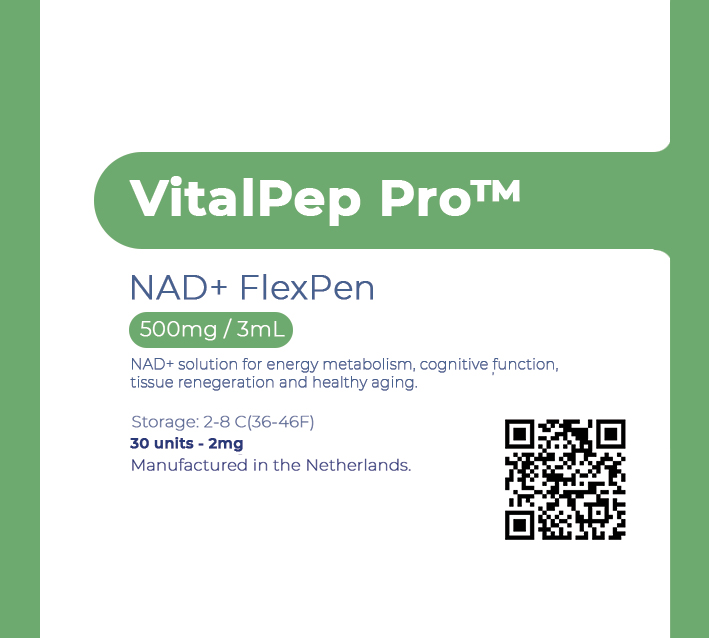
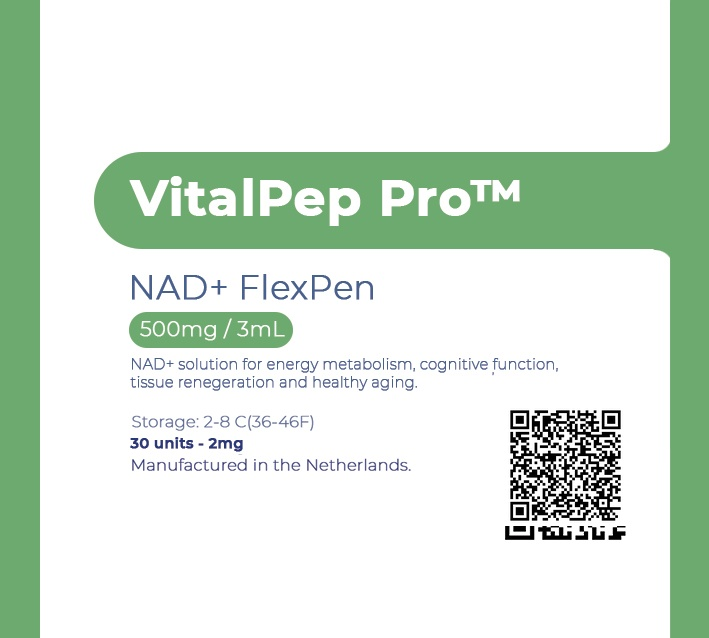
Add verification system: QR codes, verify page, GitHub Pages redirect
- page-verify.php: new template that authenticates scans via token meta
- docs/: GitHub Pages redirect layer (domain-independent QR URLs)
- All 7 pen images: QR codes replaced with per-pen verification URLs
- functions.php: verify tokens in seeder, ensure-tokens initializer,
  /verify/ page auto-created, token display in meta box

Changed region(s): [[0.7137, 0.6254, 0.8999, 0.8339]]

diff --git a/docs/verify/index.html b/docs/verify/index.html
@@ -1,0 +1,44 @@
+<!DOCTYPE html>
+<html lang="en">
+<head>
+    <meta charset="UTF-8">
+    <meta name="viewport" content="width=device-width, initial-scale=1.0">
+    <title>VitalPep Pro — Redirecting to Verification...</title>
+    <script src="../config.js"></script>
+    <script>
+        (function() {
+            var t = new URLSearchParams(window.location.search).get('t') || '';
+            if (t && typeof VERIFY_DOMAIN !== 'undefined') {
+                window.location.replace(VERIFY_DOMAIN + '/verify/?t=' + encodeURIComponent(t));
+            } else if (typeof VERIFY_DOMAIN !== 'undefined') {
+                window.location.replace(VERIFY_DOMAIN + '/verify/');
+            }
+        })();
+    </script>
+    <style>
+        body { margin: 0; background: #0a0f1e; display: flex; align-items: center; justify-content: center; min-height: 100vh; font-family: -apple-system, sans-serif; }
+        .box { text-align: center; color: #fff; }
+        .spinner { width: 40px; height: 40px; border: 3px solid rgba(93,173,226,.2); border-top-color: #5dade2; border-radius: 50%; animation: spin .8s linear infinite; margin: 0 auto 20px; }
+        @keyframes spin { to { transform: rotate(360deg); } }
+        p { color: rgba(255,255,255,.6); font-size: .9rem; margin: 0; }
+        a { color: #5dade2; }
+    </style>
+</head>
+<body>
+    <div class="box">
+        <div class="spinner"></div>
+        <p>Redirecting to VitalPep Pro verification&hellip;</p>
+        <p style="margin-top:12px;font-size:.8rem">
+            If you are not redirected, <a id="fallback" href="#">click here</a>.
+        </p>
+    </div>
+    <script>
+        // Set fallback link
+        var t = new URLSearchParams(window.location.search).get('t') || '';
+        var link = typeof VERIFY_DOMAIN !== 'undefined'
+            ? VERIFY_DOMAIN + '/verify/?t=' + encodeURIComponent(t)
+            : 'https://vitalpeppro.com/verify/';
+        document.getElementById('fallback').href = link;
+    </script>
+</body>
+</html>

diff --git a/docs/index.html b/docs/index.html
@@ -1,0 +1,19 @@
+<!DOCTYPE html>
+<html lang="en">
+<head>
+    <meta charset="UTF-8">
+    <title>VitalPep Pro</title>
+    <script src="config.js"></script>
+    <script>
+        if (typeof VERIFY_DOMAIN !== 'undefined') {
+            window.location.replace(VERIFY_DOMAIN);
+        }
+    </script>
+</head>
+<body>
+    <p>Redirecting to <a id="l" href="https://vitalpeppro.com">VitalPep Pro</a>...</p>
+    <script>
+        if (typeof VERIFY_DOMAIN !== 'undefined') document.getElementById('l').href = VERIFY_DOMAIN;
+    </script>
+</body>
+</html>

diff --git a/docs/config.js b/docs/config.js
@@ -1,0 +1,5 @@
+// =====================================================
+// UPDATE THIS URL WHEN YOUR DOMAIN CHANGES
+// Then commit + push to GitHub — all QR codes update
+// =====================================================
+var VERIFY_DOMAIN = "https://vitalpeppro.com";

diff --git a/page-verify.php b/page-verify.php
@@ -1,0 +1,194 @@
+<?php
+/*
+ * Template Name: Verify
+ * Template Post Type: page
+ */
+
+// Look up FlexPen by verification token
+$token    = isset( $_GET['t'] ) ? sanitize_text_field( $_GET['t'] ) : '';
+$verified = false;
+$pen_post = null;
+
+if ( $token ) {
+    $results = get_posts( array(
+        'post_type'      => 'vp_flexpen',
+        'post_status'    => 'publish',
+        'posts_per_page' => 1,
+        'meta_query'     => array( array(
+            'key'     => '_vpp_fp_verify_token',
+            'value'   => $token,
+            'compare' => '=',
+        ) ),
+    ) );
+    if ( ! empty( $results ) ) {
+        $pen_post = $results[0];
+        $verified = true;
+    }
+}
+
+get_header();
+$g = $pen_post ? function( $k ) use ( $pen_post ) { return get_post_meta( $pen_post->ID, $k, true ); } : null;
+?>
+
+<style>
+.vfy-wrap{min-height:100vh;background:linear-gradient(135deg,#060c18 0%,#0a1628 60%,#071020 100%);display:flex;align-items:center;justify-content:center;padding:40px 20px}
+.vfy-card{background:rgba(255,255,255,.04);border:1px solid rgba(93,173,226,.15);border-radius:20px;max-width:560px;width:100%;padding:48px 44px;text-align:center;position:relative;overflow:hidden}
+.vfy-card::before{content:'';position:absolute;inset:0;background:radial-gradient(ellipse at 50% 0%,rgba(93,173,226,.07),transparent 65%);pointer-events:none}
+
+/* VERIFIED state */
+.vfy-badge{display:inline-flex;align-items:center;gap:10px;padding:10px 22px;border-radius:999px;font-size:.78rem;font-weight:700;letter-spacing:.1em;text-transform:uppercase;margin-bottom:28px}
+.vfy-badge--ok{background:rgba(39,174,96,.12);border:1px solid rgba(39,174,96,.3);color:#27ae60}
+.vfy-badge--fail{background:rgba(220,38,38,.1);border:1px solid rgba(220,38,38,.25);color:#ef4444}
+.vfy-badge svg{flex-shrink:0}
+
+.vfy-icon{width:72px;height:72px;border-radius:50%;display:flex;align-items:center;justify-content:center;margin:0 auto 20px}
+.vfy-icon--ok{background:rgba(39,174,96,.12);border:2px solid rgba(39,174,96,.25)}
+.vfy-icon--fail{background:rgba(220,38,38,.08);border:2px solid rgba(220,38,38,.2)}
+
+.vfy-title{font-size:1.7rem;font-weight:800;margin:0 0 6px;color:#fff}
+.vfy-title--ok span{color:#27ae60}
+.vfy-title--fail span{color:#ef4444}
+.vfy-sub{font-size:.92rem;color:rgba(255,255,255,.55);margin:0 0 32px;line-height:1.6}
+
+.vfy-divider{height:1px;background:rgba(93,173,226,.1);margin:28px 0}
+
+/* Product details */
+.vfy-product{display:flex;align-items:center;gap:20px;text-align:left;background:rgba(93,173,226,.04);border:1px solid rgba(93,173,226,.1);border-radius:12px;padding:18px 20px;margin-bottom:24px}
+.vfy-product__img{width:72px;height:72px;border-radius:8px;object-fit:contain;flex-shrink:0;background:rgba(255,255,255,.03)}
+.vfy-product__name{font-size:1.15rem;font-weight:700;color:#fff;margin:0 0 4px}
+.vfy-product__cat{font-size:.75rem;color:#5dade2;letter-spacing:.08em;text-transform:uppercase;font-weight:600;margin:0 0 8px}
+.vfy-product__meta{display:flex;flex-wrap:wrap;gap:6px;margin:0}
+.vfy-meta-chip{font-size:.72rem;background:rgba(255,255,255,.06);border:1px solid rgba(255,255,255,.08);color:rgba(255,255,255,.6);padding:3px 10px;border-radius:20px}
+
+.vfy-specs{display:grid;grid-template-columns:1fr 1fr;gap:10px;margin-bottom:24px;text-align:left}
+.vfy-spec{background:rgba(255,255,255,.03);border:1px solid rgba(255,255,255,.06);border-radius:10px;padding:12px 14px}
+.vfy-spec__label{font-size:.68rem;text-transform:uppercase;letter-spacing:.08em;color:rgba(255,255,255,.35);margin-bottom:4px}
+.vfy-spec__val{font-size:.9rem;font-weight:600;color:#fff}
+
+.vfy-seal{display:flex;align-items:center;justify-content:center;gap:8px;font-size:.75rem;color:rgba(255,255,255,.35);margin-top:24px}
+.vfy-seal svg{color:rgba(255,255,255,.25)}
+
+.vfy-brand{display:flex;align-items:center;justify-content:center;gap:8px;margin-bottom:32px}
+.vfy-brand__name{font-size:1rem;font-weight:700;color:#fff;letter-spacing:.04em}
+.vfy-brand__tag{font-size:.7rem;color:#5dade2;letter-spacing:.12em;text-transform:uppercase}
+
+/* INVALID state message */
+.vfy-invalid-msg{color:rgba(255,255,255,.55);font-size:.9rem;line-height:1.7;margin-bottom:24px}
+.vfy-btn{display:inline-flex;align-items:center;gap:8px;background:#1a5276;color:#fff;padding:12px 28px;border-radius:999px;text-decoration:none;font-size:.88rem;font-weight:600;transition:background .2s}
+.vfy-btn:hover{background:#2980b9;color:#fff}
+</style>
+
+<div class="vfy-wrap">
+    <div class="vfy-card">
+
+        <!-- Brand header -->
+        <div class="vfy-brand">
+            <svg width="24" height="24" fill="none" stroke="#5dade2" viewBox="0 0 24 24"><path stroke-linecap="round" stroke-linejoin="round" stroke-width="2" d="M19.428 15.428a2 2 0 00-1.022-.547l-2.387-.477a6 6 0 00-3.86.517l-.318.158a6 6 0 01-3.86.517L6.05 15.21a2 2 0 00-1.806.547M8 4h8l-1 1v5.172a2 2 0 00.586 1.414l5 5c1.26 1.26.367 3.414-1.415 3.414H4.828c-1.782 0-2.674-2.154-1.414-3.414l5-5A2 2 0 009 10.172V5L8 4z"/></svg>
+            <div>
+                <div class="vfy-brand__name">VitalPep Pro™</div>
+                <div class="vfy-brand__tag">Product Verification</div>
+            </div>
+        </div>
+
+        <?php if ( $verified && $pen_post ) : ?>
+
+            <!-- VERIFIED -->
+            <div class="vfy-icon vfy-icon--ok">
+                <svg width="36" height="36" fill="none" stroke="#27ae60" viewBox="0 0 24 24"><path stroke-linecap="round" stroke-linejoin="round" stroke-width="2.5" d="M9 12l2 2 4-4m6 2a9 9 0 11-18 0 9 9 0 0118 0z"/></svg>
+            </div>
+
+            <div class="vfy-badge vfy-badge--ok">
+                <svg width="12" height="12" fill="currentColor" viewBox="0 0 24 24"><path d="M9 12l2 2 4-4m6 2a9 9 0 11-18 0 9 9 0 0118 0z"/></svg>
+                Authenticity Verified
+            </div>
+
+            <h1 class="vfy-title vfy-title--ok"><span>Genuine</span> VitalPep Pro Product</h1>
+            <p class="vfy-sub">This FlexPen has been verified as an authentic VitalPep Pro product manufactured under cGMP standards at our Netherlands facility.</p>
+
+            <div class="vfy-divider"></div>
+
+            <!-- Product card -->
+            <div class="vfy-product">
+                <?php
+                $img = $g('_vpp_fp_img_catalog') ?: get_the_post_thumbnail_url( $pen_post->ID, 'thumbnail' );
+                if ( ! $img && $g('_vpp_fp_img_fallback') )
+                    $img = get_template_directory_uri() . '/assets/images/' . $g('_vpp_fp_img_fallback');
+                ?>
+                <?php if ( $img ) : ?>
+                <img src="<?php echo esc_url($img); ?>" alt="<?php echo esc_attr( get_the_title($pen_post) ); ?>" class="vfy-product__img">
+                <?php endif; ?>
+                <div>
+                    <?php if ( $g('_vpp_fp_category') ) : ?>
+                    <div class="vfy-product__cat"><?php echo esc_html( $g('_vpp_fp_category') ); ?></div>
+                    <?php endif; ?>
+                    <div class="vfy-product__name"><?php echo esc_html( get_the_title($pen_post) ); ?> FlexPen</div>
+                    <div class="vfy-product__meta">
+                        <?php if ( $g('_vpp_fp_total') )   : ?><span class="vfy-meta-chip"><?php echo esc_html( $g('_vpp_fp_total') ); ?></span><?php endif; ?>
+                        <?php if ( $g('_vpp_fp_purity') )  : ?><span class="vfy-meta-chip"><?php echo esc_html( $g('_vpp_fp_purity') ); ?></span><?php endif; ?>
+                    </div>
+                </div>
+            </div>
+
+            <!-- Spec grid -->
+            <div class="vfy-specs">
+                <div class="vfy-spec">
+                    <div class="vfy-spec__label">Batch Number</div>
+                    <div class="vfy-spec__val"><?php echo esc_html( $g('_vpp_fp_batch') ?: '—' ); ?></div>
+                </div>
+                <div class="vfy-spec">
+                    <div class="vfy-spec__label">Purity</div>
+                    <div class="vfy-spec__val"><?php echo esc_html( $g('_vpp_fp_purity') ?: '99%+' ); ?></div>
+                </div>
+                <div class="vfy-spec">
+                    <div class="vfy-spec__label">Storage</div>
+                    <div class="vfy-spec__val"><?php echo esc_html( $g('_vpp_fp_storage') ?: '2–8°C' ); ?></div>
+                </div>
+                <div class="vfy-spec">
+                    <div class="vfy-spec__label">Origin</div>
+                    <div class="vfy-spec__val">Netherlands cGMP</div>
+                </div>
+            </div>
+
+            <a href="<?php echo esc_url( home_url('/flexpens/') ); ?>" class="vfy-btn">
+                <svg width="14" height="14" fill="none" stroke="currentColor" viewBox="0 0 24 24"><path stroke-linecap="round" stroke-linejoin="round" stroke-width="2" d="M19.428 15.428a2 2 0 00-1.022-.547l-2.387-.477a6 6 0 00-3.86.517l-.318.158a6 6 0 01-3.86.517L6.05 15.21a2 2 0 00-1.806.547M8 4h8l-1 1v5.172a2 2 0 00.586 1.414l5 5c1.26 1.26.367 3.414-1.415 3.414H4.828c-1.782 0-2.674-2.154-1.414-3.414l5-5A2 2 0 009 10.172V5L8 4z"/></svg>
+                View Full Product Details
+            </a>
+
+        <?php else : ?>
+
+            <!-- INVALID / NOT FOUND -->
+            <div class="vfy-icon vfy-icon--fail">
+                <svg width="36" height="36" fill="none" stroke="#ef4444" viewBox="0 0 24 24"><path stroke-linecap="round" stroke-linejoin="round" stroke-width="2.5" d="M12 9v2m0 4h.01m-6.938 4h13.856c1.54 0 2.502-1.667 1.732-3L13.732 4c-.77-1.333-2.694-1.333-3.464 0L3.34 16c-.77 1.333.192 3 1.732 3z"/></svg>
+            </div>
+
+            <div class="vfy-badge vfy-badge--fail">
+                <svg width="12" height="12" fill="currentColor" viewBox="0 0 24 24"><path d="M12 9v2m0 4h.01M12 2a10 10 0 100 20A10 10 0 0012 2z"/></svg>
+                Verification Failed
+            </div>
+
+            <h1 class="vfy-title vfy-title--fail">Could Not <span>Verify</span> Product</h1>
+            <p class="vfy-invalid-msg">
+                <?php if ( $token ) : ?>
+                This verification code was not found in our system. This may indicate a counterfeit product or a damaged QR code.<br><br>
+                If you believe this is an error, please contact us with your batch number.
+                <?php else : ?>
+                No verification code was provided. Please scan the QR code on your VitalPep Pro FlexPen label to verify authenticity.
+                <?php endif; ?>
+            </p>
+
+            <a href="<?php echo esc_url( home_url('/contact/') ); ?>" class="vfy-btn">
+                <svg width="14" height="14" fill="none" stroke="currentColor" viewBox="0 0 24 24"><path stroke-linecap="round" stroke-linejoin="round" stroke-width="2" d="M8 12h.01M12 12h.01M16 12h.01M21 12c0 4.418-4.03 8-9 8a9.863 9.863 0 01-4.255-.949L3 20l1.395-3.72C3.512 15.042 3 13.574 3 12c0-4.418 4.03-8 9-8s9 3.582 9 8z"/></svg>
+                Contact Support
+            </a>
+
+        <?php endif; ?>
+
+        <div class="vfy-seal">
+            <svg width="14" height="14" fill="none" stroke="currentColor" viewBox="0 0 24 24"><path stroke-linecap="round" stroke-linejoin="round" stroke-width="2" d="M9 12l2 2 4-4m5.618-4.016A11.955 11.955 0 0112 2.944a11.955 11.955 0 01-8.618 3.04A12.02 12.02 0 003 9c0 5.591 3.824 10.29 9 11.622 5.176-1.332 9-6.03 9-11.622 0-1.042-.133-2.052-.382-3.016z"/></svg>
+            VitalPep Pro Pharmaceuticals B.V. · Netherlands · cGMP Certified
+        </div>
+
+    </div>
+</div>
+
+<?php get_footer(); ?>

diff --git a/functions.php b/functions.php
@@ -321,6 +321,21 @@ function vpp_fp_meta_callback( $post ) {
     }
     echo "</select></td></tr>";
 
+    $h( '🔐 Verification (QR Code)' );
+    $token = $g( '_vpp_fp_verify_token' );
+    if ( $token ) {
+        $verify_url = 'https://jalentized-blip.github.io/vitalpep-pro/verify/?t=' . $token;
+        echo "<tr><th style='width:180px'>Verification Token</th><td>";
+        echo "<code style='font-size:.85em;background:#f0f0f1;padding:4px 8px;border-radius:4px;user-select:all'>" . esc_html( $token ) . "</code>";
+        echo "<p class='description' style='margin-top:6px'>QR URL: <a href='" . esc_url( $verify_url ) . "' target='_blank'>" . esc_html( $verify_url ) . "</a></p>";
+        echo "<p class='description'>This token is read-only and is used to authenticate scans of the physical pen label QR code.</p>";
+        echo "</td></tr>";
+    } else {
+        echo "<tr><th style='width:180px'>Verification Token</th><td>";
+        echo "<span style='color:#999'>No token yet — will be assigned automatically on next admin page load.</span>";
+        echo "</td></tr>";
+    }
+
     $h( '🎨 Layout' );
     $layout = $g( '_vpp_fp_layout' );
     echo "<tr><th><label for='_vpp_fp_layout'>Section Style</label></th><td><select id='_vpp_fp_layout' name='_vpp_fp_layout'>";
@@ -804,6 +819,7 @@ function vitalpep_create_pages() {
         array( 'title' => 'Dosage Calculator','slug' => 'calculator',  'template' => 'page-calculator.php' ),
         array( 'title' => 'Contact',          'slug' => 'contact',     'template' => 'page-contact.php' ),
         array( 'title' => 'FAQ',              'slug' => 'faq',         'template' => 'page-faq.php' ),
+        array( 'title' => 'Verify',           'slug' => 'verify',      'template' => 'page-verify.php' ),
     );
 
     foreach ( $pages as $page ) {
@@ -1430,6 +1446,7 @@ add_action( 'admin_init', function() {
             '_vpp_fp_storage'  => '2–8 °C · do not freeze', '_vpp_fp_batch' => 'NL-2026-A',
             '_vpp_fp_pdf'      => $uri . '/assets/pdfs/ghkcu-dosage-manual.pdf',
             '_vpp_fp_inquiry'  => 'GHK-Cu+FlexPen', '_vpp_fp_img_fallback' => 'flexpenspageimages/ghkpen.jpg',
+            '_vpp_fp_verify_token' => 'b0bcd45bc5982e60f42c3adb107e6da1',
             '_vpp_fp_show_in_reel' => '1', '_vpp_fp_reel_extra' => 'cGMP Netherlands',
             '_vpp_fp_show_in_dosing' => '1', '_vpp_fp_show_in_calc' => '1',
             '_vpp_fp_calc_mg' => '100', '_vpp_fp_calc_ml' => '3', '_vpp_fp_calc_maxdose' => '5',
@@ -1451,6 +1468,7 @@ add_action( 'admin_init', function() {
             '_vpp_fp_storage'  => '2–8 °C · do not freeze', '_vpp_fp_batch' => 'NL-2026-B',
             '_vpp_fp_pdf'      => $uri . '/assets/pdfs/retatrutide-dosage-manual.pdf',
             '_vpp_fp_inquiry'  => 'Retatrutide+FlexPen', '_vpp_fp_img_fallback' => 'flexpenspageimages/retapen.jpg',
+            '_vpp_fp_verify_token' => 'd4bca322cd401614e471d97b07b8427a',
             '_vpp_fp_show_in_reel' => '1', '_vpp_fp_reel_extra' => 'Triple Agonist',
             '_vpp_fp_show_in_dosing' => '1', '_vpp_fp_show_in_calc' => '1',
             '_vpp_fp_calc_mg' => '30', '_vpp_fp_calc_ml' => '3', '_vpp_fp_calc_maxdose' => '12',
@@ -1472,6 +1490,7 @@ add_action( 'admin_init', function() {
             '_vpp_fp_storage'  => '2–8 °C · do not freeze', '_vpp_fp_batch' => 'NL-2026-C',
             '_vpp_fp_pdf'      => $uri . '/assets/pdfs/melanotan2-dosage-manual.pdf',
             '_vpp_fp_inquiry'  => 'Melanotan+II+FlexPen', '_vpp_fp_img_fallback' => 'flexpenspageimages/mt2pen.jpg',
+            '_vpp_fp_verify_token' => 'a94ebfa73ef1b50148b090c3bc2998fa',
             '_vpp_fp_show_in_reel' => '1', '_vpp_fp_reel_extra' => 'Melanocortin Agonist',
             '_vpp_fp_show_in_dosing' => '1', '_vpp_fp_show_in_calc' => '1',
             '_vpp_fp_calc_mg' => '10', '_vpp_fp_calc_ml' => '3', '_vpp_fp_calc_maxdose' => '1000',
@@ -1493,6 +1512,7 @@ add_action( 'admin_init', function() {
             '_vpp_fp_storage'  => '2–8 °C · do not freeze', '_vpp_fp_batch' => 'NL-2026-D',
             '_vpp_fp_pdf'      => $uri . '/assets/pdfs/nadplus-dosage-manual.pdf',
             '_vpp_fp_inquiry'  => 'NAD%2B+FlexPen', '_vpp_fp_img_fallback' => 'flexpenspageimages/nadpen.jpg',
+            '_vpp_fp_verify_token' => 'fadfb75e87ea0f7d9350a4c63f553992',
             '_vpp_fp_show_in_reel' => '1', '_vpp_fp_reel_extra' => 'cGMP Netherlands',
             '_vpp_fp_show_in_dosing' => '1', '_vpp_fp_show_in_calc' => '1',
             '_vpp_fp_calc_mg' => '500', '_vpp_fp_calc_ml' => '3', '_vpp_fp_calc_maxdose' => '500',
@@ -1514,6 +1534,7 @@ add_action( 'admin_init', function() {
             '_vpp_fp_storage'  => '2–8 °C · do not freeze', '_vpp_fp_batch' => 'NL-2026-E',
             '_vpp_fp_pdf'      => $uri . '/assets/pdfs/semaglutide-dosage-manual.pdf',
             '_vpp_fp_inquiry'  => 'Semaglutide+FlexPen', '_vpp_fp_img_fallback' => 'flexpenspageimages/semapen.jpg',
+            '_vpp_fp_verify_token' => 'b7db409860667801b04ac0f4f257fe4b',
             '_vpp_fp_show_in_reel' => '1', '_vpp_fp_reel_extra' => 'GLP-1 Agonist',
             '_vpp_fp_show_in_dosing' => '1', '_vpp_fp_show_in_calc' => '1',
             '_vpp_fp_calc_mg' => '10', '_vpp_fp_calc_ml' => '3', '_vpp_fp_calc_maxdose' => '2',
@@ -1535,6 +1556,7 @@ add_action( 'admin_init', function() {
             '_vpp_fp_storage'  => '2–8 °C · do not freeze', '_vpp_fp_batch' => 'NL-2026-F',
             '_vpp_fp_pdf'      => $uri . '/assets/pdfs/tirzepatide-dosage-manual.pdf',
             '_vpp_fp_inquiry'  => 'Tirzepatide+FlexPen', '_vpp_fp_img_fallback' => 'flexpenspageimages/tirzpen.jpg',
+            '_vpp_fp_verify_token' => '9ba683c6f0023e4fb45bfc15000ff030',
             '_vpp_fp_show_in_reel' => '1', '_vpp_fp_reel_extra' => 'Dual GIP/GLP-1',
             '_vpp_fp_show_in_dosing' => '1', '_vpp_fp_show_in_calc' => '1',
             '_vpp_fp_calc_mg' => '30', '_vpp_fp_calc_ml' => '3', '_vpp_fp_calc_maxdose' => '15',
@@ -1556,6 +1578,7 @@ add_action( 'admin_init', function() {
             '_vpp_fp_storage'  => '2–8 °C · do not freeze', '_vpp_fp_batch' => 'NL-2026-G',
             '_vpp_fp_pdf'      => $uri . '/assets/pdfs/bpc157-tb500-dosage-manual.pdf',
             '_vpp_fp_inquiry'  => 'BPC-157+TB-500+Blend+FlexPen', '_vpp_fp_img_fallback' => 'flexpenspageimages/bpc157tb500pen.jpg',
+            '_vpp_fp_verify_token' => '01cebed97182cb296830bc314a63e0d8',
             '_vpp_fp_show_in_reel' => '1', '_vpp_fp_reel_extra' => 'Dual Peptide Synergy',
             '_vpp_fp_show_in_dosing' => '1', '_vpp_fp_show_in_calc' => '1',
             '_vpp_fp_calc_mg' => '20', '_vpp_fp_calc_ml' => '3', '_vpp_fp_calc_maxdose' => '750',
@@ -1591,6 +1614,38 @@ add_action( 'admin_init', function() {
         }
     }
     set_transient( 'vpp_flexpens_seeded_v3', true, YEAR_IN_SECONDS );
+} );
+
+/* =========================================================================
+   FLEXPEN VERIFICATION TOKENS — ensure all existing pens have their token
+   Runs once on admin_init; safe to re-run (add_post_meta with unique=true).
+   ========================================================================= */
+add_action( 'admin_init', function() {
+    if ( get_transient( 'vpp_tokens_applied_v1' ) ) return;
+    $token_map = array(
+        'ghkcu-flexpen'        => 'b0bcd45bc5982e60f42c3adb107e6da1',
+        'retatrutide-flexpen'  => 'd4bca322cd401614e471d97b07b8427a',
+        'melanotan-flexpen'    => 'a94ebfa73ef1b50148b090c3bc2998fa',
+        'nadplus-flexpen'      => 'fadfb75e87ea0f7d9350a4c63f553992',
+        'semaglutide-flexpen'  => 'b7db409860667801b04ac0f4f257fe4b',
+        'tirzepatide-flexpen'  => '9ba683c6f0023e4fb45bfc15000ff030',
+        'bpc157-tb500-flexpen' => '01cebed97182cb296830bc314a63e0d8',
+    );
+    foreach ( $token_map as $slug => $token ) {
+        $posts = get_posts( array(
+            'post_type'   => 'vp_flexpen',
+            'name'        => $slug,
+            'post_status' => 'publish',
+            'numberposts' => 1,
+        ) );
+        if ( empty( $posts ) ) continue;
+        $post_id = $posts[0]->ID;
+        // Only set if not already present (preserves manually overridden tokens)
+        if ( ! get_post_meta( $post_id, '_vpp_fp_verify_token', true ) ) {
+            update_post_meta( $post_id, '_vpp_fp_verify_token', $token );
+        }
+    }
+    set_transient( 'vpp_tokens_applied_v1', true, YEAR_IN_SECONDS );
 } );
 
 /* =========================================================================
